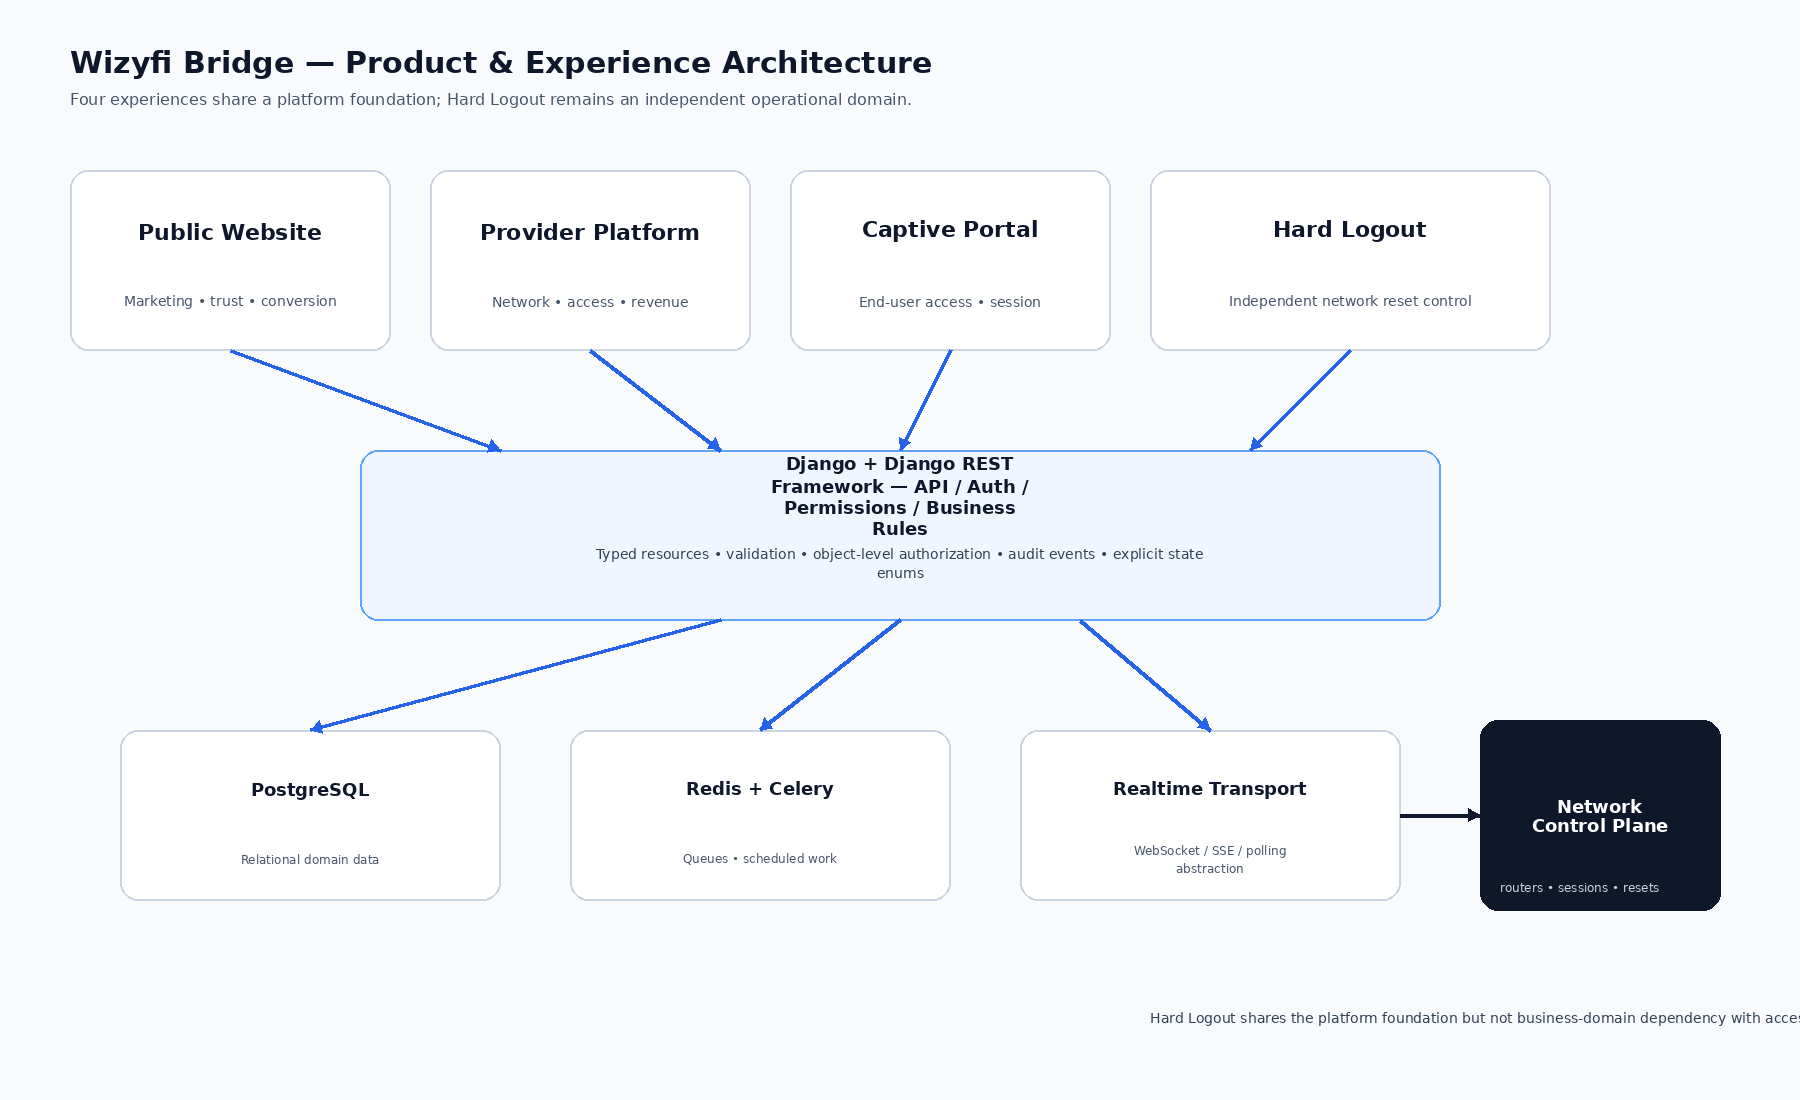
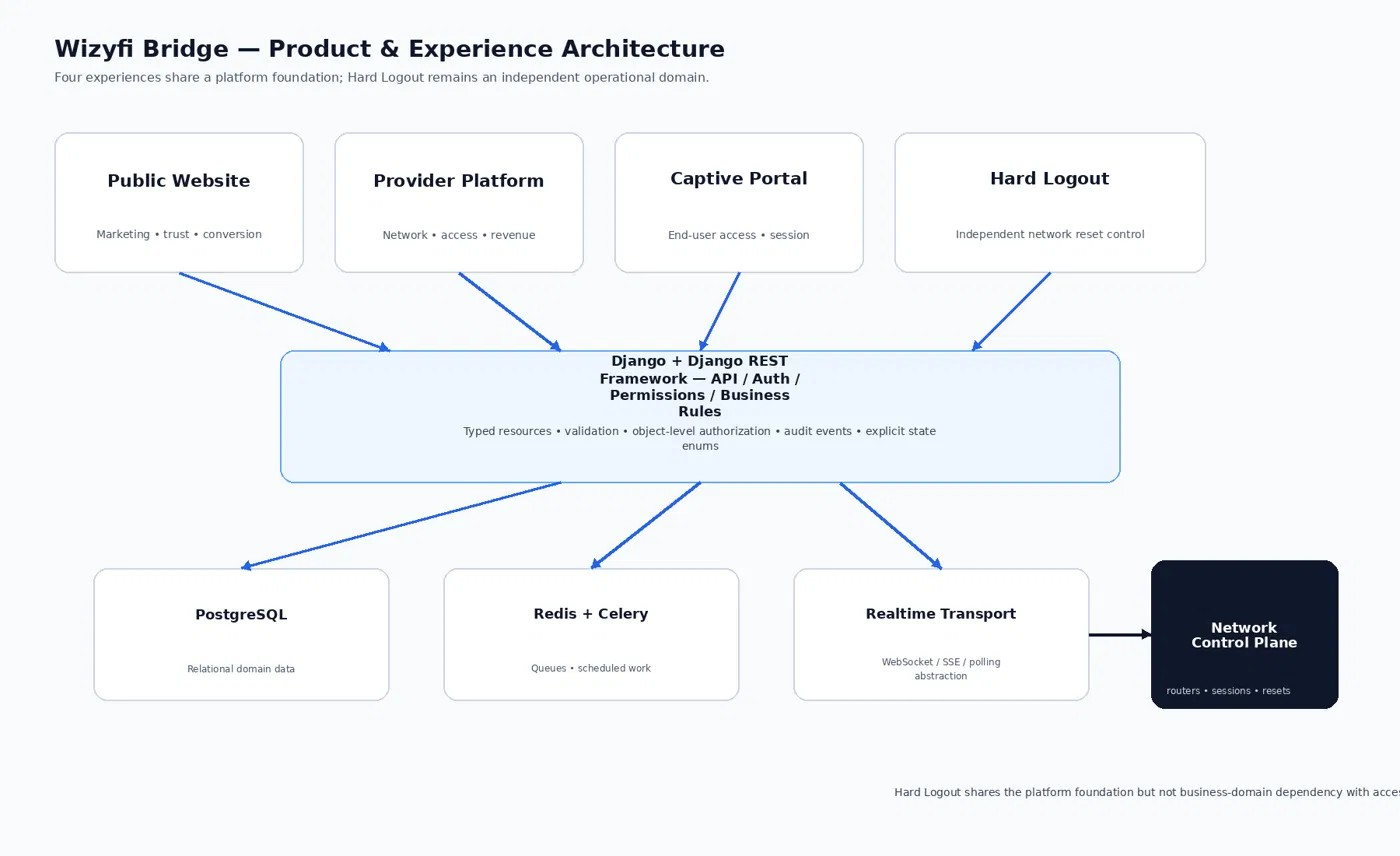
Add files via upload

diff --git a/BRAND_AND_DIAGRAMS_NOTES.md b/BRAND_AND_DIAGRAMS_NOTES.md
@@ -1,0 +1,127 @@
+# Uploaded images — what they were and where they now live
+
+You uploaded 11 images. Here's an honest breakdown of what each one
+actually is, what I did with it, and why — rather than treating them all
+the same way.
+
+## 1. Brand icon/logo — extracted a real favicon set
+
+`1789972876595...jpg` (icon + wordmark on dark navy) was the best
+candidate for actual functional icon use: clean, square-ish, high
+contrast. I cropped just the icon mark (excluding the wordmark text,
+which doesn't survive small sizes) and generated a full favicon/app-icon
+set:
+
+```
+frontend/public/brand/
+  favicon.ico          — multi-resolution (16/32/48/64px)
+  favicon-16x16.png
+  favicon-32x32.png
+  favicon-48x48.png
+  apple-touch-icon.png — 180px, for iOS home-screen bookmarks
+  icon-192.png         — PWA manifest icon
+  icon-512.png         — PWA manifest icon
+  logo-icon-lockup.jpg — the original full lockup (icon + "Wizyfi Bridge" wordmark)
+  logo-with-tagline.jpg — full lockup + "Bridging Networks..." tagline
+```
+
+**Honest caveat**: at 32px and up these read clearly. At 16px (the
+smallest real browser-tab size) the mark is legible but a bit muddy —
+that's an inherent limitation of cropping an intricate 3D-rendered
+logo down that far, not something more careful cropping fixes. If a
+crisp 16px favicon matters to you, a simplified flat-vector version of
+just the "W" bridge shape (no gradients/bevels) would hold up much
+better at that size — worth commissioning separately if it matters.
+
+**To wire in**: since this delivery doesn't include your actual
+`index.html` (see the top-level `DELIVERY_NOTES.md` for why), add these
+to yours:
+```html
+<link rel="icon" type="image/x-icon" href="/brand/favicon.ico" />
+<link rel="icon" type="image/png" sizes="32x32" href="/brand/favicon-32x32.png" />
+<link rel="icon" type="image/png" sizes="16x16" href="/brand/favicon-16x16.png" />
+<link rel="apple-touch-icon" sizes="180x180" href="/brand/apple-touch-icon.png" />
+```
+And reference `icon-192.png`/`icon-512.png` from your PWA manifest if you
+have one.
+
+## 2. Storefront signage mockup — reference only, not a functional asset
+
+`1789972893501...jpg` is an AI-generated mockup of the logo on a
+building's signage. This is marketing/pitch material, not something a
+web app uses. Saved to `marketing-assets/storefront-signage-mockup.jpg`
+for safekeeping, not wired into anything.
+
+## 3. Full lockup with tagline
+
+`1789972909161...jpg` — same icon as #1, but with the full tagline
+("Bridging Networks. Connecting People. Empowering Communities.")
+underneath. Genuinely useful for an About page, email footer, or investor
+material. Saved alongside the icon assets as `logo-with-tagline.jpg`.
+
+## 4 & 5. Multi-context marketing collages — reference only
+
+`1789972923312...jpg` and `1789972945853...jpg` are both composite mockup
+collages (laptop/phone/tablet/billboard/router-hardware shots showing the
+brand in various settings). These are pitch-deck or landing-page hero
+material, not extractable functional assets — there's no single clean
+image in either one meant to be used standalone. Saved to
+`marketing-assets/` for safekeeping.
+
+## 6. The actual Dashboard UI design — a real, valuable reference
+
+`1789972965877...jpg` is different from the rest: it's not a mockup of
+the product in a lifestyle photo, it's an actual flat UI design for the
+Dashboard screen — sidebar nav (Dashboard, Networks, Devices, Clients,
+Sessions, Analytics, Alerts, Logs, Reports, Settings), a KPI row (Total
+Networks, Active Clients, Active Sessions, Total Data Usage), a network
+activity chart, a clients-by-status donut, top-networks-by-usage bars,
+a world map with live status, an alerts panel, and a settings panel.
+
+This matches doc04 §4's Dashboard spec closely and is considerably more
+detailed than the text spec alone. Saved to
+`frontend/design-reference/dashboard-ui-reference.png` — when the actual
+`DashboardPage` gets built (not done yet in this delivery), build against
+this image directly rather than only the text spec.
+
+## 7, 8, 10, 11. The Visual Diagram Atlas — these were missing before now
+
+These four are the actual rendered diagrams that `13_Visual_Diagram_Atlas`
+and other docs only had text placeholders for (e.g. "*Figure 1 — Product
+and experience architecture.*" with no image). Copied into a new
+`06_Visual_Diagrams/` folder, named to match `MANIFEST.txt` where an
+exact entry already existed:
+
+| Uploaded image | Saved as |
+|---|---|
+| Product & Experience Architecture | `01_product_experience_architecture.png` |
+| Hard Logout Safety & Execution Flow | `02_hard_logout_safety_execution_flow.png` |
+| Complete Experience & Navigation Map | `01_complete_navigation_map.png` |
+| Logical System Architecture | `01_logical_system_architecture.png` |
+
+This closes a real gap: doc00's Round-1 completion gate explicitly
+requires "Canonical diagrams are supplied as actual visual assets, not
+text-only pseudo-diagrams" — until now, they weren't.
+
+**The navigation map diagram is also functionally useful, not just
+documentation**: it lists the actual canonical routes (`/app/hard-logout/schedule`,
+`/app/hard-logout/history`, `/app/hard-logout/:eventId`, the full
+`/portal/*` flow, etc.), which I used to correct an assumption in
+`frontend/INTEGRATION_NOTES.md` about the Hard Logout route structure.
+
+## 9. A new diagram — fills a previously-empty figure placeholder
+
+`1789974617825...jpg` ("Provider Operational Mental Model") doesn't
+match any existing `MANIFEST.txt` entry, but it's exactly the diagram
+doc01 PRD's §10 refers to ("*Figure 2 — Provider operational mental
+model.*") — which also never had an actual image before. Saved as
+`01_provider_operational_mental_model.png`, a genuine net-new addition
+to the atlas rather than a duplicate of something already covered.
+
+## What I didn't do
+
+I didn't regenerate any of the `.docx` specification files to actually
+embed these images — that's a separate, sizeable task (opening each
+`.docx`, finding the right figure placeholder, inserting the image,
+resizing correctly) and wasn't part of what was asked this round. The
+images are organized and ready for that if/when you want it done.

diff --git a/DELIVERY_NOTES.md b/DELIVERY_NOTES.md
@@ -1,0 +1,97 @@
+# Wizyfi Bridge — Delivery Notes (Access Plans + Vouchers package)
+
+## What this is
+
+A recreation of the frontend files that `Expectations_and_workflow` flagged
+as outstanding: `AccessPlansPage`, `VouchersPage`, and their supporting
+components/hooks/types/api clients, built to the contracts in docs 02, 04,
+05, 08 and 09.
+
+## Important honesty note on provenance
+
+This session's container starts empty — there is no persistent code storage
+between conversations, so I could not pull your actual existing repository
+to edit in place. Everything in this package was **rebuilt from the
+specification documents and the `Expectations_and_workflow` summary**, not
+copied from a prior working tree. Before merging:
+
+1. Diff every file here against your real repo. Where a file already
+   exists (e.g. `src/lib/api/client.ts`, `src/hooks/usePermissions.ts`),
+   **keep your real implementation** and only merge in the specific calls
+   this package needs — see the "⚠ RECONCILIATION NOTE" comment at the top
+   of each such file.
+2. Confirm the `AccessPlan` / `Voucher` field names here (`durationMinutes`,
+   `maskedCode`, etc.) match your actual DRF serializer output. I inferred
+   field names from doc 08's entity table; your real serializers may use
+   slightly different keys.
+3. Run `tsc --noEmit` and your existing test suite once merged — this
+   package has not been run against your real build.
+
+## What's included
+
+```
+frontend/src/types/accessPlan.ts
+frontend/src/types/voucher.ts
+frontend/src/lib/api/client.ts                 (reference — reconcile)
+frontend/src/lib/api/accessPlansApi.ts
+frontend/src/lib/api/vouchersApi.ts
+frontend/src/hooks/usePermissions.ts           (reference — reconcile)
+frontend/src/components/ui/EmptyState.tsx
+frontend/src/components/ui/ErrorState.tsx
+frontend/src/components/ui/TableSkeleton.tsx
+frontend/src/features/access/hooks/usePlans.ts
+frontend/src/features/access/hooks/usePlan.ts
+frontend/src/features/access/components/PlanStatusBadge.tsx
+frontend/src/features/access/components/PlanTable.tsx
+frontend/src/features/access/components/PlanEditorForm.tsx
+frontend/src/features/access/components/PlanPreview.tsx
+frontend/src/features/access/pages/AccessPlansPage.tsx
+frontend/src/features/access/pages/PlanEditorPage.tsx
+frontend/src/features/vouchers/hooks/useVouchers.ts
+frontend/src/features/vouchers/hooks/useVoucherBatch.ts
+frontend/src/features/vouchers/components/VoucherStatusBadge.tsx
+frontend/src/features/vouchers/components/VoucherTable.tsx
+frontend/src/features/vouchers/components/BulkVoucherWizard.tsx
+frontend/src/features/vouchers/components/VoucherDetailDrawer.tsx
+frontend/src/features/vouchers/pages/VouchersPage.tsx
+frontend/INTEGRATION_NOTES.md                  (router/sidebar/profile-menu edits)
+```
+
+## What's still outstanding (per Expectations_and_workflow)
+
+| Item | Status |
+|---|---|
+| `AccessPlansPage` | ✅ Delivered this round |
+| `VouchersPage` | ✅ Delivered this round |
+| Sidebar nav update for Vouchers | 📝 Instructions in `INTEGRATION_NOTES.md` (edit, not a new file) |
+| Super Admin entry point in profile menu | 📝 Instructions in `INTEGRATION_NOTES.md` (edit, not a new file) |
+| Backend endpoint verification | ⏳ Not yet done — see checklist below |
+| Final full re-verification + zip packaging | ⏳ Blocked on the above being merged into your real repo |
+
+Items 3 and 4 are edits to files I don't have, so I've written them as
+precise patch instructions rather than guessing at your file's exact
+current contents and risking a bad overwrite.
+
+## Backend verification checklist (next round)
+
+Only act on these if inspection of your real backend shows a gap —
+`Expectations_and_workflow` says `AccessPlan`, `Voucher`, `NetworkCycle`,
+`Session`, `HardLogoutEvent` models already exist:
+
+- [ ] `apps/access/serializers.py` — `AccessPlanSerializer`, `VoucherSerializer`,
+      `VoucherBatchCreateSerializer` match the field names used above
+- [ ] `apps/access/views.py` — endpoints matching doc09's inventory:
+      `GET/POST /access-plans`, `PATCH /access-plans/{id}`,
+      `POST /vouchers/batches`, `GET /vouchers`
+- [ ] Voucher batch-create endpoint honors an `Idempotency-Key` header
+      (doc09 requirement for retriable commands)
+- [ ] Plan-limit / permission checks: `access_plans:create`,
+      `access_plans:edit`, `vouchers:issue`, `vouchers:revoke` codes exist
+      in the permission matrix
+
+## Next round
+
+Tell me which of these to do next:
+1. Build out the backend verification/gap-fill for the checklist above (needs your real repo)
+2. Wire the router/sidebar/profile-menu edits directly if you paste in those three existing files
+3. Move on to final re-verification + zip packaging once 1–2 are merged
